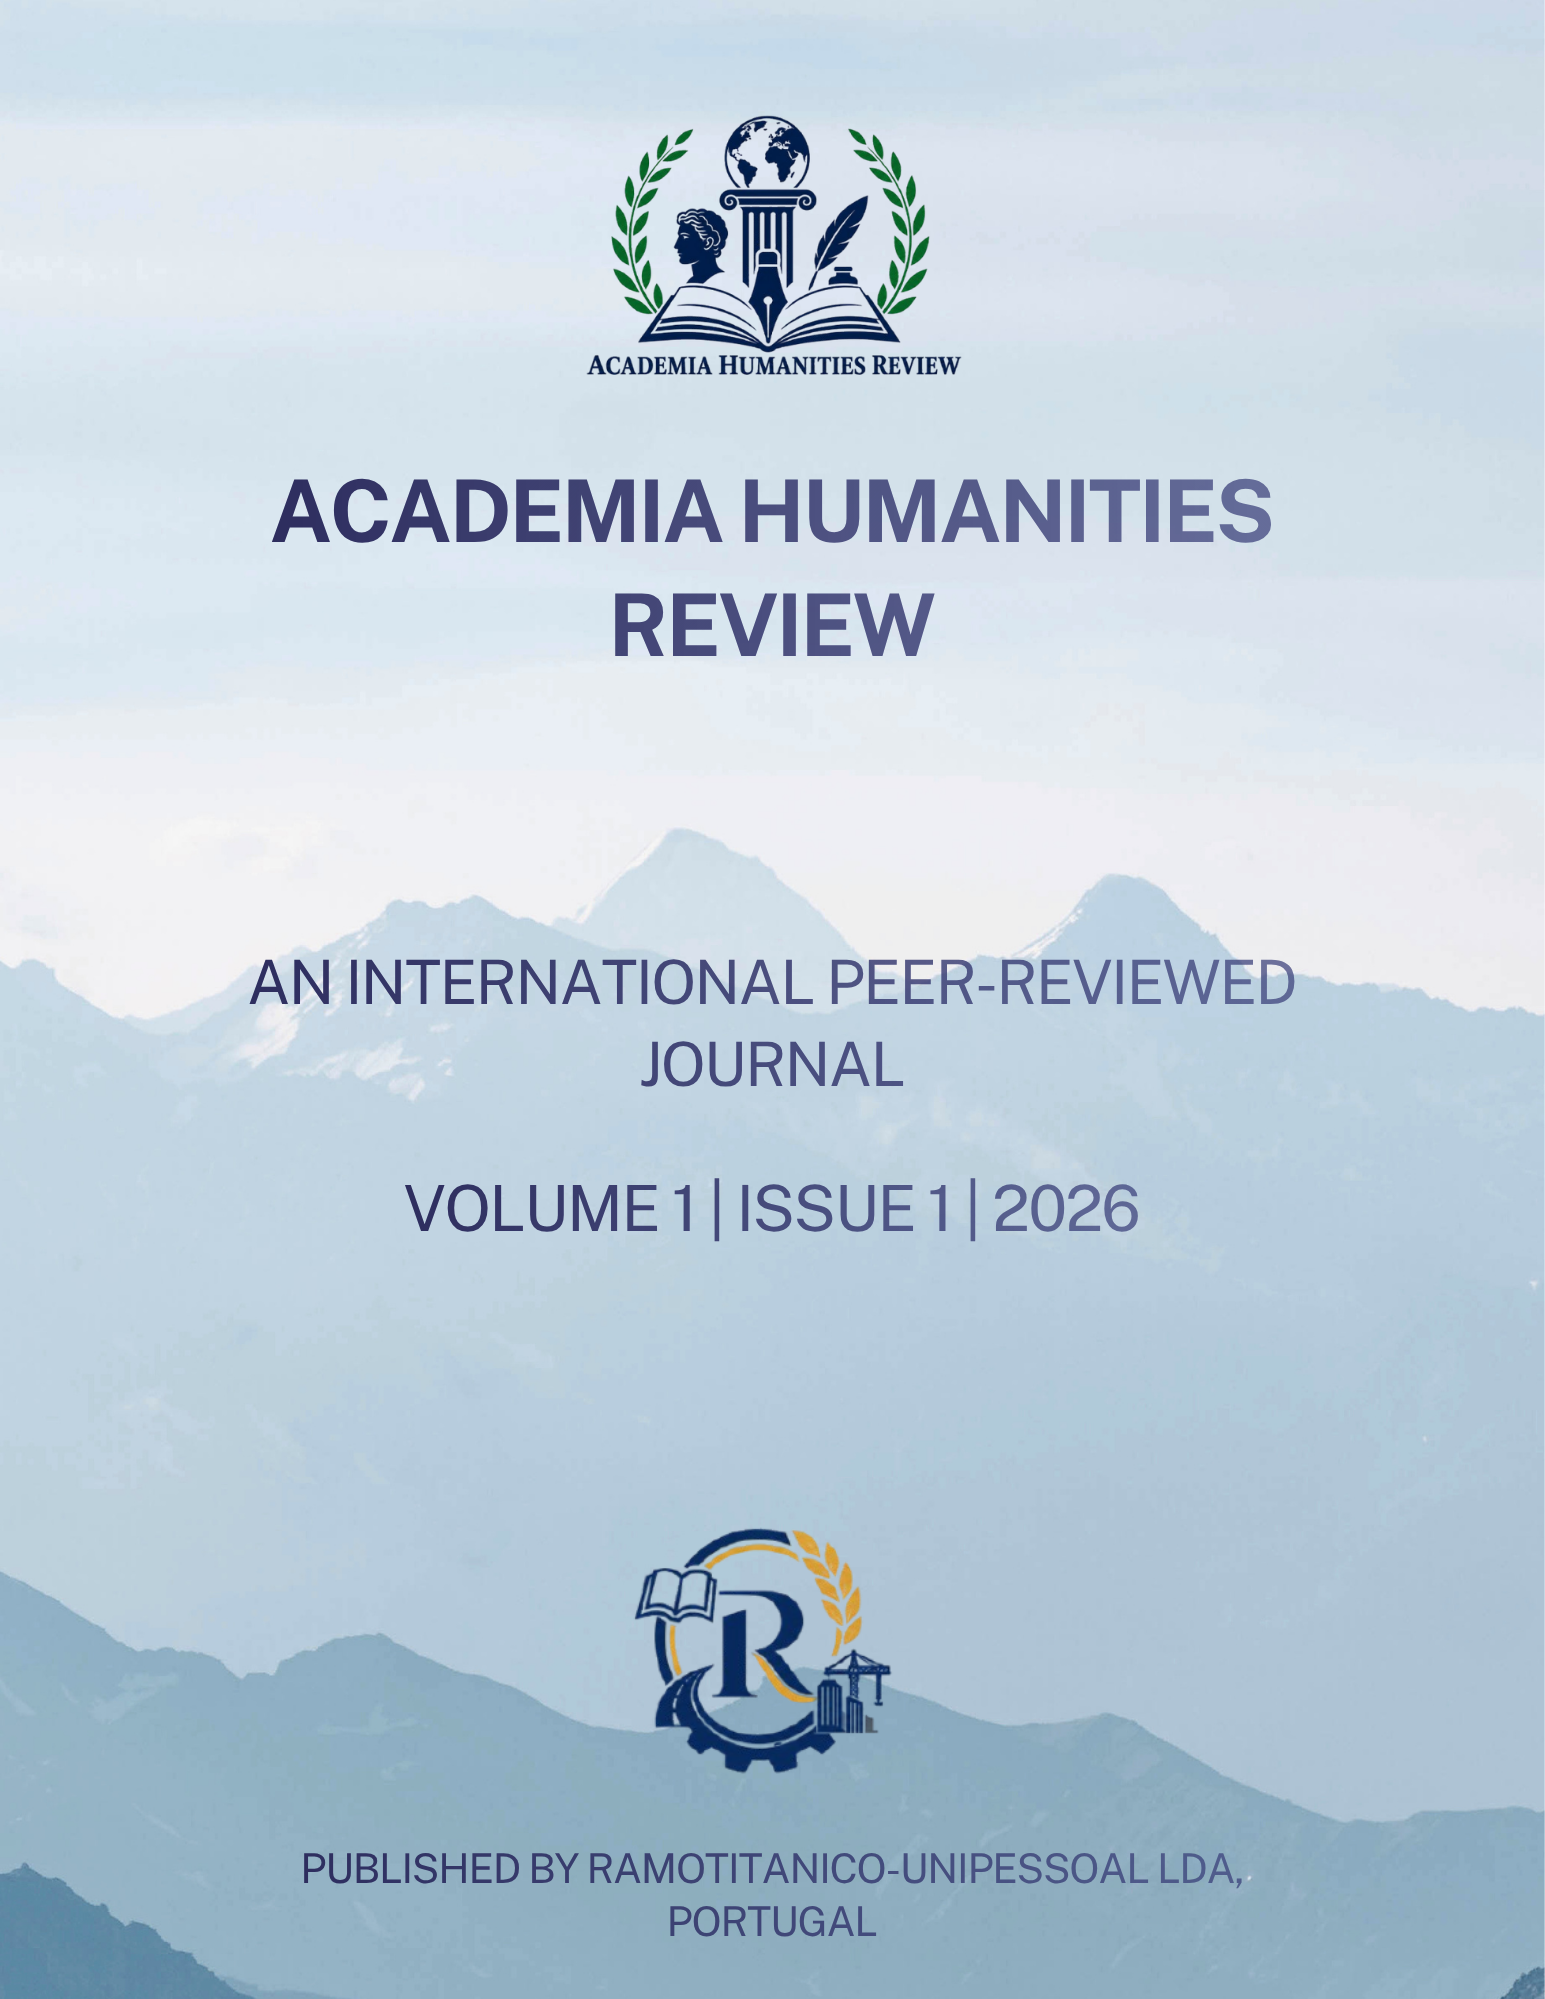
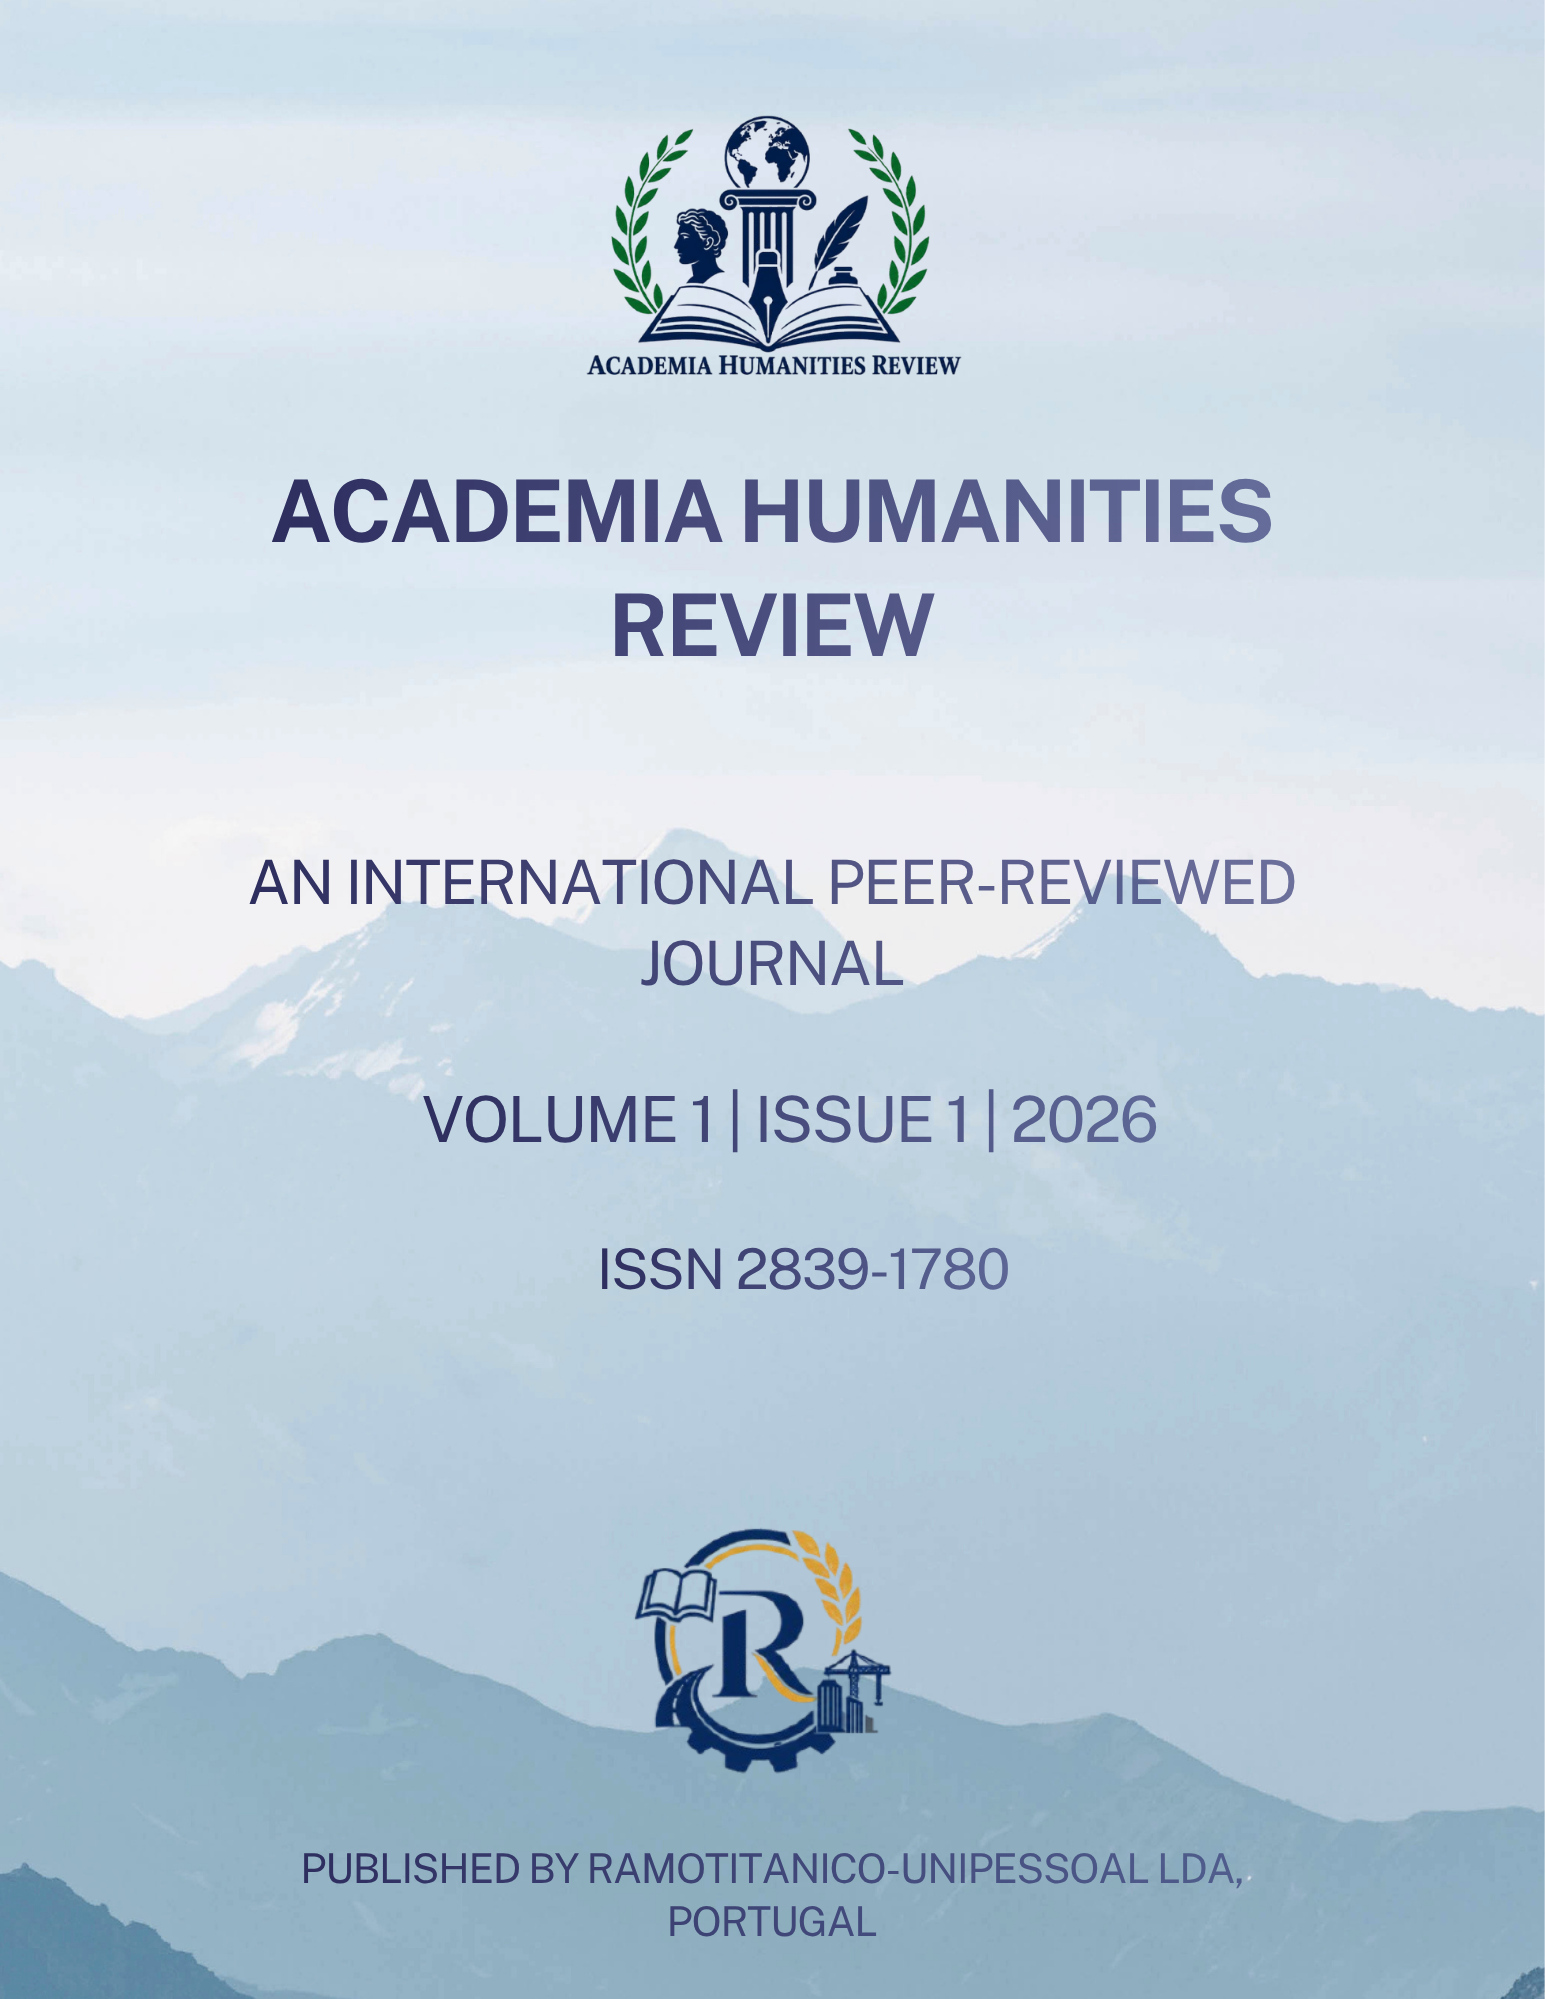
Update the journal image and ISSN number

Changed region(s): [[0.1553, 0.4342, 0.8388, 0.6513]]

diff --git a/src/routes/about-the-journal.tsx b/src/routes/about-the-journal.tsx
@@ -1,5 +1,5 @@
 import { createFileRoute } from "@tanstack/react-router";
-import { BookOpen, Globe2, CalendarClock, ShieldCheck, Languages, Landmark, Users } from "lucide-react";
+import { BookOpen, Globe2, CalendarClock, ShieldCheck, Languages, Landmark, Users, Barcode } from "lucide-react";
 import { PageHero } from "@/components/ui/page-hero";
 import { SectionTitle } from "@/components/ui/section-title";
 
@@ -25,6 +25,7 @@ const facts = [
   { icon: Languages, label: "Language", value: "English" },
   { icon: Landmark, label: "Subject Area", value: "Humanities, Literature, Cultural Studies, Linguistics, Translation Studies, Education, Interdisciplinary Humanities" },
   { icon: Users, label: "Licence", value: "Creative Commons CC BY 4.0" },
+  { icon: Barcode, label: "ISSN", value: "ISSN 2839-1780" },
 ];
 
 function AboutJournalPage() {

diff --git a/src/lib/articles-data.ts b/src/lib/articles-data.ts
@@ -10,7 +10,7 @@ export interface Article {
   authors: string;
   pages: string;
   pdf: string;
-}
+} 
 
 // Issue Interface
 export interface Issue {
